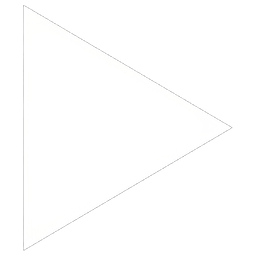
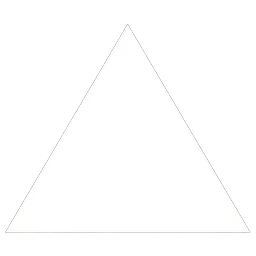
v240.6: PelisXD hacia arriba + iconos proporcionados
- pelisxd.png: triangulo blanco apuntando arriba (logo original)
- panel: tarjeta 54->40px, detalle 60->48px
- cache-buster ?v=2406, UI_VERSION v240.6

diff --git a/public/panel.html b/public/panel.html
@@ -238,7 +238,7 @@ function renderFuentes(stats){
     var act=Math.max(0,s.activas||0);
     totalAct+=act;
     var pct=s.total?Math.round(act*100/s.total):0;
-    var logo=logos[k]?'<img src="/sites/'+logos[k]+'?v=2405" alt="" style="width:54px;height:54px;object-fit:contain;flex-shrink:0;filter:drop-shadow(0 0 6px '+c+'66)" onerror="this.style.display=\'none\'">':'';
+    var logo=logos[k]?'<img src="/sites/'+logos[k]+'?v=2406" alt="" style="width:40px;height:40px;object-fit:contain;flex-shrink:0;filter:drop-shadow(0 0 6px '+c+'66)" onerror="this.style.display=\'none\'">':'';
     html+='<div class="fcard" onclick="showFuente(\''+k+'\')">'
       +'<div class="fhead"><div style="display:flex;align-items:center;gap:10px">'+logo+'<div><div class="fname" style="color:'+c+'">'+s.nombre+'</div>'
       +'<div class="fsub">'+s.total+' total · '+s.ocultas+' ocultas</div></div></div>'
@@ -254,7 +254,7 @@ function showFuente(k){
   var names={cuevana:'Cuevana',pelisxd:'PelisXD',cinecalidad:'CineCalidad',latanime:'Latanime'};
   var c=colors[k]||'#efeaf7';
   var logos={cuevana:'cuevana.png',pelisxd:'pelisxd.png',cinecalidad:'cinecalidad.png',latanime:'latanime.png'};
-  var logo=logos[k]?'<img src="/sites/'+logos[k]+'?v=2405" alt="" style="width:60px;height:60px;object-fit:contain;vertical-align:middle;margin-right:10px;filter:drop-shadow(0 0 8px '+c+'66)" onerror="this.style.display=\'none\'">':'';
+  var logo=logos[k]?'<img src="/sites/'+logos[k]+'?v=2406" alt="" style="width:48px;height:48px;object-fit:contain;vertical-align:middle;margin-right:10px;filter:drop-shadow(0 0 8px '+c+'66)" onerror="this.style.display=\'none\'">':'';
   var act=Math.max(0,f.activas||0);
   var pct=f.total?Math.round(act*100/f.total):0;
   var html='<div class="detail-section"><h3 style="color:'+c+'">'+logo+f.nombre+'</h3>'

diff --git a/server.js b/server.js
@@ -22,7 +22,7 @@ const { spawn, execFile, execFileSync } = require('child_process');
 const os = require('os'); /* v133: tmpfiles de detección de intros */
 
 const PORT = process.env.PORT || 3000;
-const UI_VERSION = 'v240.5'; // 240.5: Iconos pegados al original, fondo transparente
+const UI_VERSION = 'v240.6'; // 240.6: PelisXD hacia arriba + iconos proporcionados
 
 /* v236.8: guardián de memoria — fuerza GC cada 30s si heap > 300MB */
 if (typeof global.gc === 'function') {
